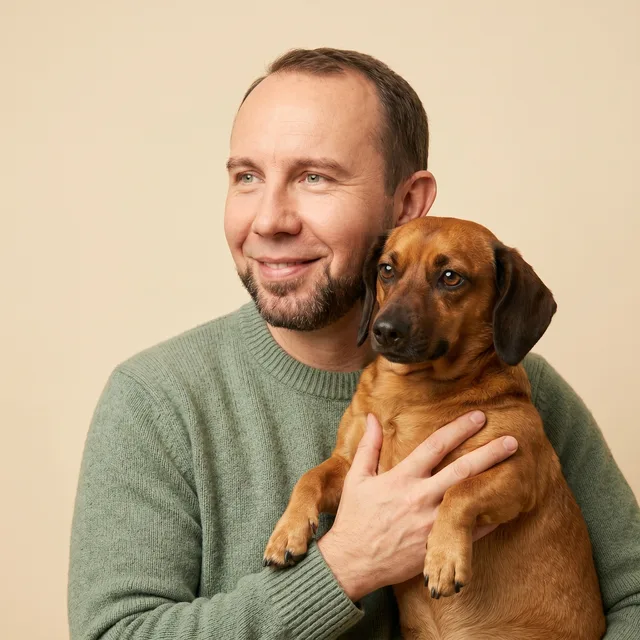
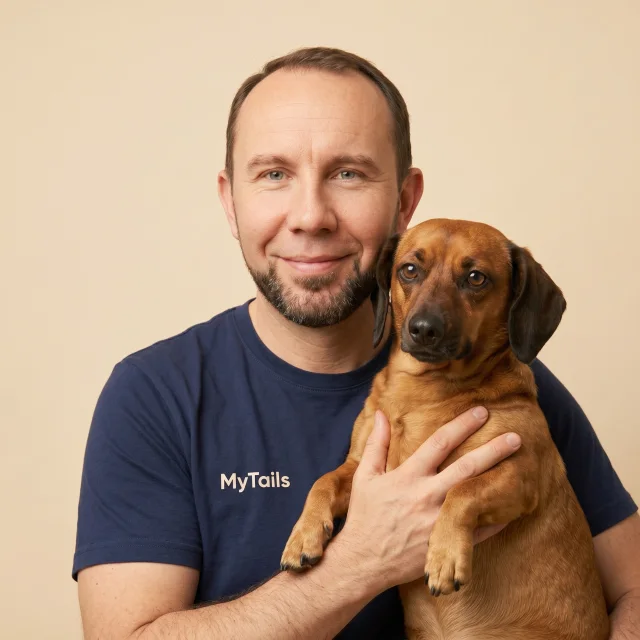
content(landing): правки ситтерского лендинга + фото Александра
- Founding: флаг «Ограниченное спец-предложение», заголовок
  «Станьте одним из первых 100 ситтеров в Мадриде»
- FAQ: «Сколько у меня будет заказов?» + новый ответ
- Финальный CTA: «Специальные условия для первых 100 ситтеров
  в Мадриде!» + «Успевай зарегистрироваться на самых выгодных условиях!»
- Новый блок «Кому это подходит?» (3 истории-персоны) вместо
  короткого блока сценариев заработка
- team-alex.webp: фронтальный ракурс, улыбка без зубов, синяя
  майка с лого MyTails

diff --git a/design-system/sitters.html b/design-system/sitters.html
@@ -45,10 +45,10 @@
     },
     {
       "@type": "Question",
-      "name": "Сколько будет заказов?",
+      "name": "Сколько у меня будет заказов?",
       "acceptedAnswer": {
         "@type": "Answer",
-        "text": "Вы сами решаете, сколько брать — никаких обязательств и минимумов. Мы привлекаем владельцев в Мадриде через рекламу, а Founding-ситтеры первые 3 месяца в приоритете поиска."
+        "text": "Решаете вы сами. Никаких обязательств. Выбирайте удобный график и зарабатывайте с нами."
       }
     },
     {
@@ -231,18 +231,41 @@
   </div>
 </section>
 
-<!-- 4b — Реальные сценарии заработка -->
-<section class="sec" id="cases">
+<!-- 4b — Кому это подходит -->
+<section class="sec" id="fits">
   <div class="sec-head">
-    <h2>Сколько зарабатывают ситтеры в Мадриде</h2>
-    <p class="lead">Разные люди, разный график — и доход под свой ритм жизни.</p>
+    <h2>Кому это подходит?</h2>
   </div>
-  <div class="cases">
-    <div class="wcard"><div><div class="amt">€310 <small>/ мес</small></div><b>Студентка-архитектор</b><p>Берёт выгулы между парами — гибкий график под учёбу.</p></div></div>
-    <div class="wcard"><div><div class="amt">€400+ <small>/ мес</small></div><b>Фрилансер</b><p>Совмещает с удалённой работой, берёт передержки на выходные.</p></div></div>
-    <div class="wcard"><div><div class="amt">€300 <small>/ мес</small></div><b>Учитель</b><p>Подрабатывает дневным уходом во второй половине дня.</p></div></div>
+  <div class="fits">
+    <article class="fit">
+      <span class="fit-num">01</span>
+      <div>
+        <h3>Ты студент архитектуры в Мадриде</h3>
+        <p>Пары заканчиваются в два. Дальше — свободное время до ужина. Начал выгуливать собак двух соседок из подъезда. Ничего в расписании не менял — просто выходил на улицу вместо залипания в гаджетах и зарабатывал тридцать евро в день.</p>
+        <p class="fit-pay">Первый месяц: <b>310 €</b>. Проездной, кафе, кино.</p>
+        <p>Клиентов искать не пришлось. Они нашлись сами.</p>
+      </div>
+    </article>
+    <article class="fit">
+      <span class="fit-num">02</span>
+      <div>
+        <h3>Ты дизайнер-фрилансер в Мадриде</h3>
+        <p>Работаешь из дома. Звонки по видеосвязи, проекты по дедлайнам, расписание, которое съезжает когда горит задача.</p>
+        <p>Стала брать кошек на выходные — хозяева уезжают в поездку, а питомец лучше в квартире, чем в гостинице для животных. Никуда ехать не нужно. Животное приходит в пятницу, уходит в воскресенье. Ты работаешь, а рядом спит пушистый комок.</p>
+        <p class="fit-pay">Одни выходные в месяц: <b>80–120 €</b>. Четыре выходных: <b>400 €</b> сверху — не выходя из дома.</p>
+      </div>
+    </article>
+    <article class="fit">
+      <span class="fit-num">03</span>
+      <div>
+        <h3>Ты учитель в школе в Мадриде</h3>
+        <p>Заканчиваешь в три. Раньше приходил домой и готовился к лекциям до позднего вечера.</p>
+        <p>Теперь выгуливаешь трёх собак из района — час на улице и глазам передышка. Тебе за это платят. А ежедневная прогулка тебе и самому была нужна.</p>
+        <p class="fit-pay"><b>300 €</b> в месяц за час в день. Не ожидал, что цифры так сложатся.</p>
+      </div>
+    </article>
   </div>
-  <p class="disc cases-disc">Ориентировочные примеры, не гарантированный доход. Зависит от вашей занятости, услуг и спроса.</p>
+  <p class="disc cases-disc">*Приведённые цифры — иллюстративные сценарии, рассчитанные на основе средних рыночных цен в Мадриде. Реальный доход зависит от твоей загрузки, набора услуг и спроса в твоём районе.</p>
 </section>
 
 <!-- 5 — Как это работает -->
@@ -259,8 +282,8 @@
 <!-- 6 — Founding Sitter Program -->
 <section class="sec">
   <div class="founding">
-    <span class="flag">🔥 Особые бонусы для первых 100 ситтеров Мадрида</span>
-    <h2>Присоединяйтесь к первым ситтерам Мадрида</h2>
+    <span class="flag">🔥 Ограниченное спец-предложение</span>
+    <h2>Станьте одним из первых 100 ситтеров в Мадриде</h2>
     <div class="perks3">
       <div class="perk"><span class="ic"><svg class="ic2"><use href="#i-badge"/></svg></span><b>Бейдж «Founding Sitter»</b><small>в профиле — навсегда</small></div>
       <div class="perk"><span class="ic"><svg class="ic2"><use href="#i-zero"/></svg></span><b>0% комиссии</b><small>на первые 3 заказа</small></div>
@@ -306,8 +329,8 @@
       <div class="faq-a-wrap"><div class="faq-a"><div>Главное — любовь к животным и ответственность. Опыт приветствуется, но не обязателен.</div></div></div>
     </div>
     <div class="faq-item">
-      <button class="faq-q" aria-expanded="false">Сколько будет заказов?<span class="pm"><svg class="ic2" style="width:15px;height:15px"><use href="#i-plus"/></svg></span></button>
-      <div class="faq-a-wrap"><div class="faq-a"><div>Вы сами решаете, сколько брать — никаких обязательств и минимумов. Мы привлекаем владельцев в Мадриде через рекламу, а Founding-ситтеры первые 3 месяца в приоритете поиска.</div></div></div>
+      <button class="faq-q" aria-expanded="false">Сколько у меня будет заказов?<span class="pm"><svg class="ic2" style="width:15px;height:15px"><use href="#i-plus"/></svg></span></button>
+      <div class="faq-a-wrap"><div class="faq-a"><div>Решаете вы сами. Никаких обязательств. Выбирайте удобный график и зарабатывайте с нами.</div></div></div>
     </div>
     <div class="faq-item">
       <button class="faq-q" aria-expanded="false">Как я получаю деньги?<span class="pm"><svg class="ic2" style="width:15px;height:15px"><use href="#i-plus"/></svg></span></button>
@@ -323,8 +346,8 @@
 <!-- 10 — Финальный CTA -->
 <section class="sec">
   <div class="final" id="join-final">
-    <h2>Founding-бонусы — для первых 100 ситтеров</h2>
-    <p class="lead">Регистрация открыта для всех. Оставьте email сейчас — закрепите статус Founding Sitter и его бонусы.</p>
+    <h2>Специальные условия для первых 100 ситтеров в Мадриде!</h2>
+    <p class="lead">Успевай зарегистрироваться на самых выгодных условиях!</p>
     <form class="lead-form" onsubmit="return false">
       <input type="email" placeholder="Ваш email" id="final-email" />
       <button class="btn" type="submit">Хочу в первые 100 →</button>

diff --git a/design-system/assets/sitters.css b/design-system/assets/sitters.css
@@ -255,15 +255,16 @@ body { background:var(--bg); color:var(--ink); font-family:"Manrope",sans-serif;
 .founding .fbar i { display:block; height:100%; width:0; border-radius:var(--r-pill); background:linear-gradient(90deg,var(--gold),var(--primary)); transition:width 2.4s cubic-bezier(.22,.8,.36,1); }
 .founding .btn { margin-top:24px; }
 
-/* 4b — реальные сценарии заработка (персоны) */
-.cases { display:grid; grid-template-columns:repeat(3,1fr); gap:16px; }
-@media (max-width:760px){ .cases { grid-template-columns:1fr; } }
-.cases .wcard { display:block; }
-.cases .amt { font-family:"Lora",serif; font-size:34px; font-weight:600; color:var(--sage); font-variant-numeric:tabular-nums; line-height:1; }
-.cases .amt small { font-size:.42em; color:var(--ink-muted); font-weight:600; font-family:"Manrope",sans-serif; }
-.cases .wcard b { display:block; margin-top:12px; }
-.cases .wcard p { font-size:14px; color:var(--ink-muted); margin-top:6px; }
-.cases-disc { text-align:center; max-width:560px; margin:18px auto 0; }
+/* 4b — кому это подходит (персоны-истории) */
+.fits { display:flex; flex-direction:column; gap:16px; max-width:820px; margin-inline:auto; }
+.fit { background:var(--surface); border:1px solid var(--border); border-radius:var(--r-lg); padding:clamp(22px,3vw,32px); display:flex; gap:clamp(14px,2.5vw,22px); }
+.fit-num { font-family:"Lora",serif; font-size:clamp(26px,3.4vw,34px); font-weight:700; color:var(--sage); line-height:1; flex-shrink:0; opacity:.85; }
+.fit h3 { font-family:"Lora",serif; font-size:clamp(18px,2.2vw,22px); font-weight:600; line-height:1.2; }
+.fit p { font-size:15px; color:var(--ink-muted); margin-top:10px; line-height:1.6; }
+.fit .fit-pay { color:var(--ink); }
+.fit .fit-pay b { color:var(--primary); font-weight:800; font-variant-numeric:tabular-nums; }
+@media (max-width:480px){ .fit { flex-direction:column; gap:6px; } }
+.cases-disc { text-align:center; max-width:620px; margin:20px auto 0; }
 
 /* 7 — почему MyTails */
 .why { display:grid; grid-template-columns:repeat(2,1fr); gap:16px; }